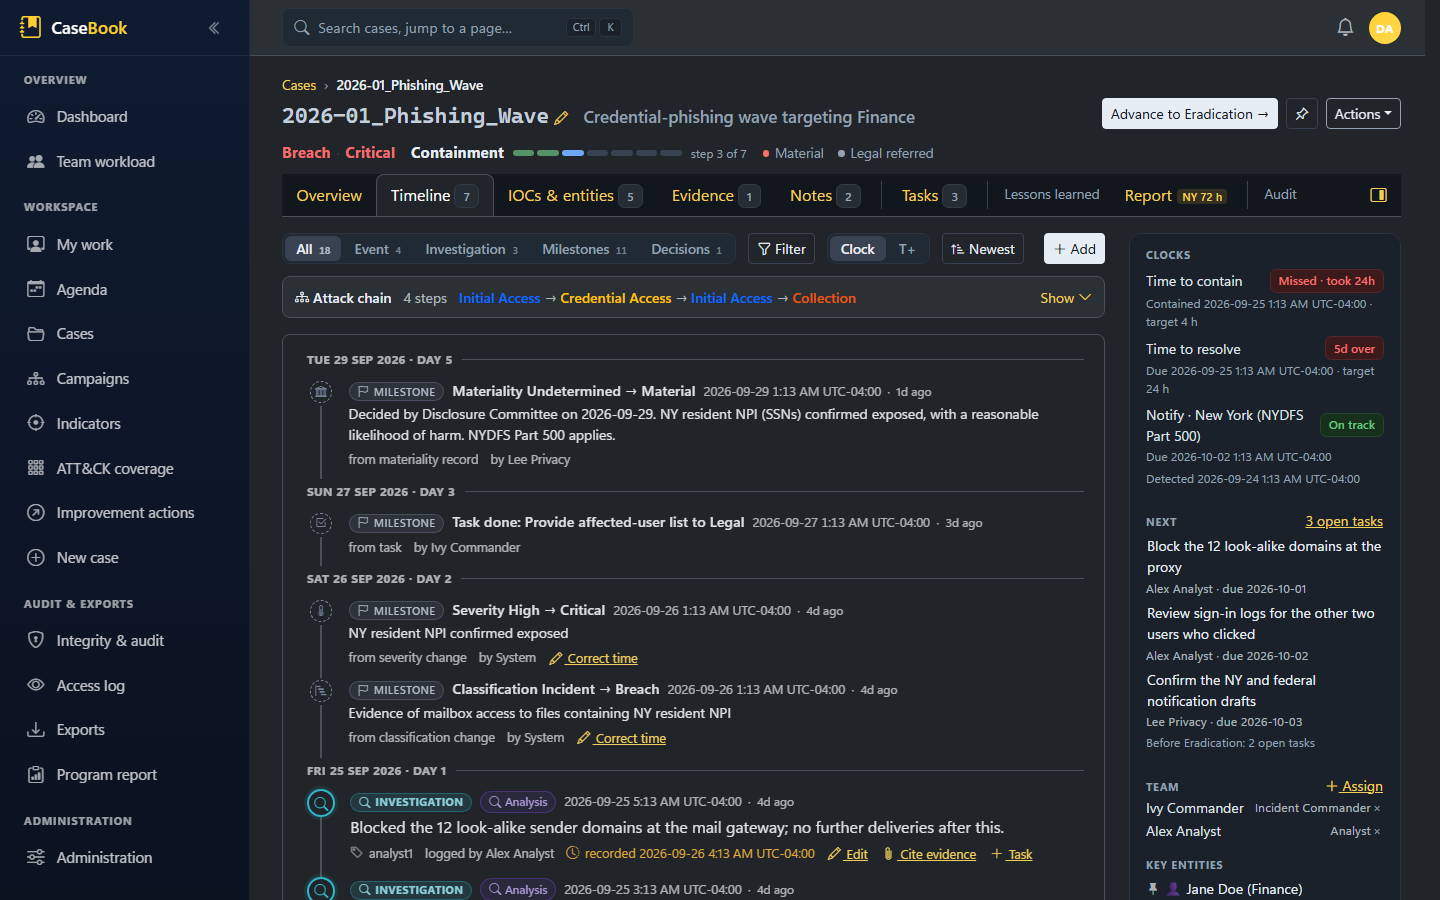
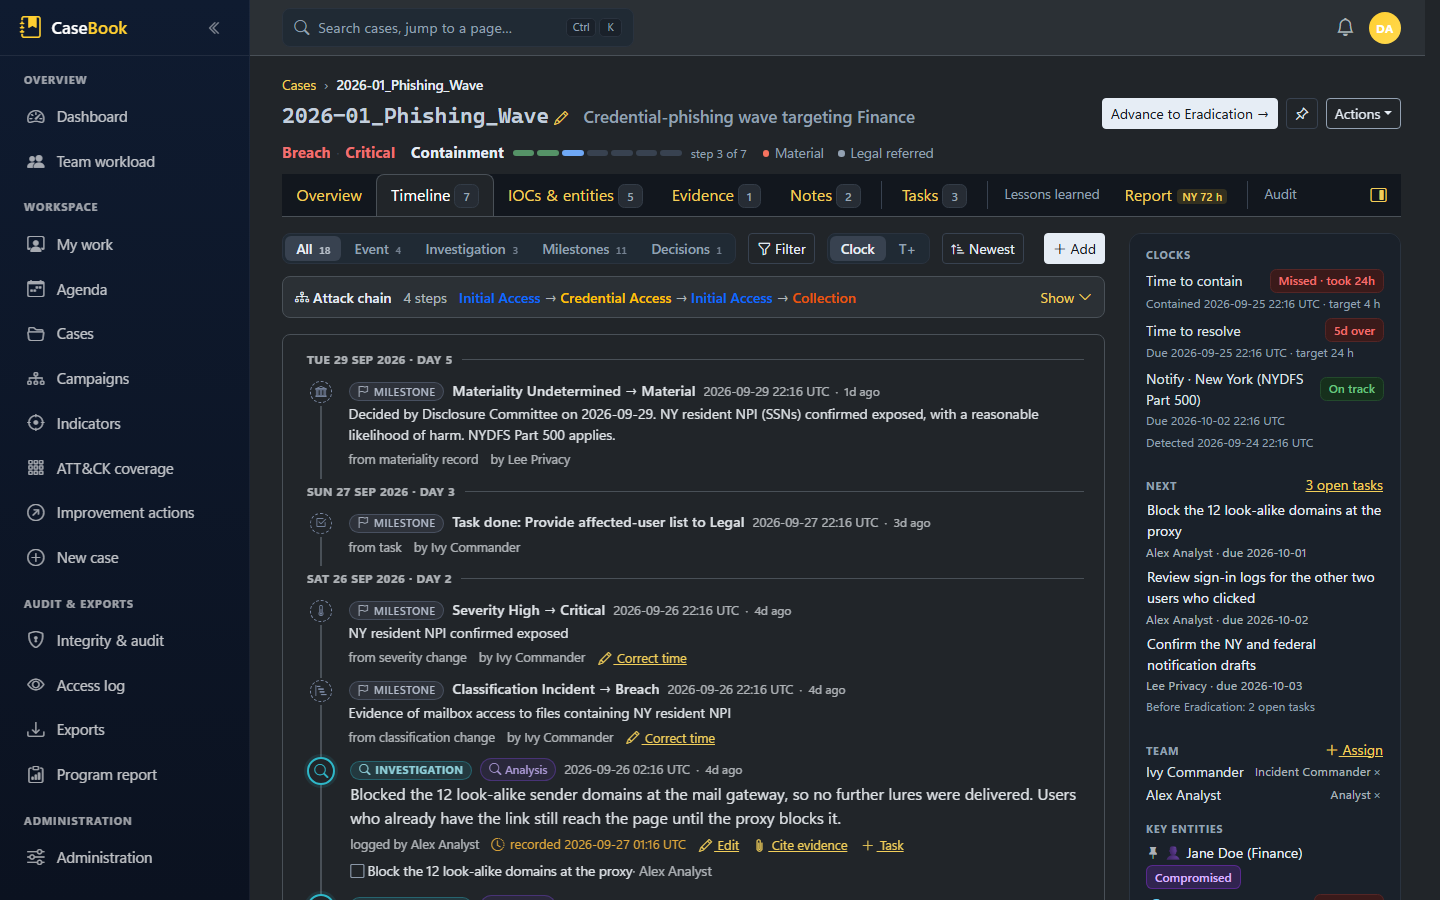
INV-42: the demo case shows named people, not System; README shots refreshed
The demo phishing case recorded its phase, classification and severity
changes, the Legal referral and its tasks as "System", in a product whose
stance is that every transition is a named person's act; two entries showed
raw user ids as their source; and the mail-gateway entry read as
contradicting the open proxy task.

- Alex opens and works the case, Ivy makes the calls and owns the tasks,
  Morgan staffs it.
- Entry sources no longer hold user ids; the lure URL comes from the email
  gateway.
- The gateway entry says the proxy block is still to come; the proxy task
  is about that entry and the sign-in review task is about Jane Doe, so
  both kinds of "about" chip show.
- All 23 README screenshots recaptured (H-10).

diff --git a/src/IncidentManager.Infrastructure/Persistence/DevDataSeeder.cs b/src/IncidentManager.Infrastructure/Persistence/DevDataSeeder.cs
@@ -86,9 +86,16 @@ public static class DevDataSeeder
         {
             CaseId = c.Id, Kind = TimelineKind.Investigation, Type = TimelineEntryType.Analysis,
             OccurredAtUtc = now.AddDays(-5).AddHours(4),
-            Description = "Blocked the 12 look-alike sender domains at the mail gateway; no further deliveries after this.",
-            Source = "analyst1", CreatedBy = "analyst1", CreatedAtUtc = now.AddDays(-4).AddHours(3)
+            Description = "Blocked the 12 look-alike sender domains at the mail gateway, so no further lures were delivered. " +
+                "Users who already have the link still reach the page until the proxy blocks it.",
+            CreatedBy = "analyst1", CreatedAtUtc = now.AddDays(-4).AddHours(3)
         });
+
+        // INV-42: the proxy task was raised from that entry, so its "about" chip leads back to it.
+        await db.SaveChangesAsync(ct);
+        var gateway = c.TimelineEntries.First(x => x.Description.StartsWith("Blocked the 12 look-alike sender domains"));
+        if (c.ActionItems.FirstOrDefault(x => x.Title.StartsWith("Block the 12 look-alike domains")) is { } proxy)
+            proxy.AboutRef = $"{ActionItem.AboutEntry}:{gateway.Id}";
 
         if (store is not null)
         {
@@ -516,11 +523,13 @@ public static class DevDataSeeder
             NewUser("admin1", "Sam Admin", "sam.admin@contoso-insurance.example", "SysAdmin", now));
         await db.SaveChangesAsync(ct);
 
-        // Case 1 — internal phishing, escalated to Breach with a Legal referral.
+        // Case 1 — internal phishing, escalated to Breach with a Legal referral. INV-42: every act on it is a named
+        // person's (the product's human-gated stance): Alex works it, Ivy commands it, Morgan staffs it.
+        const string ivy = "ic1", alex = "analyst1", morgan = "mgr1";
         var c1 = Case.Open(2026, 1, "Phishing Wave", "Credential-phishing wave targeting Finance",
-            Classification.AdverseEvent, Severity.Medium, CaseOrigin.InternalDetection, actor, now.AddDays(-6));
+            Classification.AdverseEvent, Severity.Medium, CaseOrigin.InternalDetection, alex, now.AddDays(-6));
         c1.DetectionCaseId = "SIEM-40122";
-        c1.SetInitialSummary("Multiple finance users received look-alike O365 login prompts.", actor, now.AddDays(-6));   // brief v1
+        c1.SetInitialSummary("Multiple finance users received look-alike O365 login prompts.", alex, now.AddDays(-6));   // brief v1
         c1.DataTypesInvolved = "Credentials; potential NPI";
         db.Cases.Add(c1);
         await db.SaveChangesAsync(ct);
@@ -530,62 +539,62 @@ public static class DevDataSeeder
             CaseId = c1.Id, Kind = TimelineKind.Investigation, OccurredAtUtc = now.AddDays(-5).AddHours(2),
             Type = TimelineEntryType.Analysis,
             Description = "Reviewed mailbox audit logs; confirmed one session established from a foreign ASN.",
-            Source = "analyst1", CreatedBy = actor, CreatedAtUtc = now.AddDays(-5).AddHours(2)
+            CreatedBy = alex, CreatedAtUtc = now.AddDays(-5).AddHours(2)
         });
         c1.Notes.Add(new AnalystNote
         {
             CaseId = c1.Id, Body = "Reset credentials for affected users; pulled mailbox audit logs.",
-            CreatedBy = actor, CreatedAtUtc = now.AddDays(-6)
+            CreatedBy = alex, CreatedAtUtc = now.AddDays(-6)
         });
-        c1.Assign("ic1", "Ivy Commander", CaseAssignmentRole.IncidentCommander, actor, now.AddDays(-6));
-        c1.Assign("analyst1", "Alex Analyst", CaseAssignmentRole.Analyst, actor, now.AddDays(-6));
-        c1.ChangePhase(CasePhase.Containment, "Isolated affected mailboxes", actor, now.AddDays(-5));
+        c1.Assign("ic1", "Ivy Commander", CaseAssignmentRole.IncidentCommander, morgan, now.AddDays(-6));
+        c1.Assign("analyst1", "Alex Analyst", CaseAssignmentRole.Analyst, morgan, now.AddDays(-6));
+        c1.ChangePhase(CasePhase.Containment, "Isolated affected mailboxes", ivy, now.AddDays(-5));
         await db.SaveChangesAsync(ct);
 
-        c1.Reclassify(Classification.Incident, "Confirmed successful credential capture", actor, now.AddDays(-5));
-        c1.ChangeSeverity(Severity.High, "Confirmed unauthorized mailbox access", actor, now.AddDays(-5));
-        c1.Reclassify(Classification.Breach, "Evidence of mailbox access to files containing NY resident NPI", actor, now.AddDays(-4));
-        c1.ChangeSeverity(Severity.Critical, "NY resident NPI confirmed exposed", actor, now.AddDays(-4));
-        c1.ReferToLegal(actor, "privacy@contoso-insurance.example", "NY resident NPI potentially accessed. Possible NYDFS Part 500 relevance.", now.AddDays(-4));
+        c1.Reclassify(Classification.Incident, "Confirmed successful credential capture", ivy, now.AddDays(-5));
+        c1.ChangeSeverity(Severity.High, "Confirmed unauthorized mailbox access", ivy, now.AddDays(-5));
+        c1.Reclassify(Classification.Breach, "Evidence of mailbox access to files containing NY resident NPI", ivy, now.AddDays(-4));
+        c1.ChangeSeverity(Severity.Critical, "NY resident NPI confirmed exposed", ivy, now.AddDays(-4));
+        c1.ReferToLegal(ivy, "privacy@contoso-insurance.example", "NY resident NPI potentially accessed. Possible NYDFS Part 500 relevance.", now.AddDays(-4));
         c1.ActionItems.Add(new ActionItem
         {
             CaseId = c1.Id, Title = "Provide affected-user list to Legal", Owner = "ic1",
             DueAtUtc = now.AddDays(-2), Status = ActionItemStatus.Done, CompletedAtUtc = now.AddDays(-3),
-            CreatedBy = actor, CreatedAtUtc = now.AddDays(-4)
+            CreatedBy = ivy, CreatedAtUtc = now.AddDays(-4)
         });
 
         // Entities / IOCs and the relationships between them (the investigation graph).
         var acct = c1.AddEntity(EntityType.Account, "CONTOSO\\jdoe", "Jane Doe (Finance)",
-            EntityDisposition.Unknown, "Mailbox accessed by the attacker.", "SIEM", actor, now.AddDays(-5));
+            EntityDisposition.Unknown, "Mailbox accessed by the attacker.", "SIEM", alex, now.AddDays(-5));
         var host = c1.AddEntity(EntityType.Host, "FIN-WKS-07", "Finance workstation",
-            EntityDisposition.Benign, "Endpoint the affected user logged in from.", "SIEM", actor, now.AddDays(-5));
+            EntityDisposition.Benign, "Endpoint the affected user logged in from.", "SIEM", alex, now.AddDays(-5));
         var ip = c1.AddEntity(EntityType.IpAddress, "203.0.113.66", "Foreign ASN egress",
-            EntityDisposition.Malicious, "Source of the unauthorized mailbox session.", "SIEM", actor, now.AddDays(-5));
+            EntityDisposition.Malicious, "Source of the unauthorized mailbox session.", "SIEM", alex, now.AddDays(-5));
         var url = c1.AddEntity(EntityType.Url, "https://o365-secure-login.contoso-insurance.example.attacker.test",
             "Phishing lure", EntityDisposition.Malicious, "Credential-harvesting page from the lure emails.",
-            "analyst1", actor, now.AddDays(-6));
+            "Email gateway", alex, now.AddDays(-6));
[1 lines of base64/hex data omitted]
-            "Lure attachment (SHA-256)", EntityDisposition.Suspicious, null, "VirusTotal", actor, now.AddDays(-6));
+            "Lure attachment (SHA-256)", EntityDisposition.Suspicious, null, "VirusTotal", alex, now.AddDays(-6));
 
-        c1.AddTechnique("T1566", "Phishing", MitreTactic.InitialAccess, actor, now.AddDays(-6));
-        c1.AddTechnique("T1078", "Valid Accounts", MitreTactic.InitialAccess, actor, now.AddDays(-5));
-        c1.AddTechnique("T1114", "Email Collection", MitreTactic.Collection, actor, now.AddDays(-5));
-        c1.LinkEntities(acct.Id, url.Id, EntityRelationshipType.Accessed, "User submitted credentials to the lure.", actor, now.AddDays(-6));
-        c1.LinkEntities(acct.Id, host.Id, EntityRelationshipType.LoggedInTo, null, actor, now.AddDays(-5));
-        c1.LinkEntities(url.Id, ip.Id, EntityRelationshipType.ResolvedTo, null, actor, now.AddDays(-5));
-        c1.LinkEntities(host.Id, ip.Id, EntityRelationshipType.CommunicatedWith, "Outbound session to the attacker IP.", actor, now.AddDays(-5));
+        c1.AddTechnique("T1566", "Phishing", MitreTactic.InitialAccess, alex, now.AddDays(-6));
+        c1.AddTechnique("T1078", "Valid Accounts", MitreTactic.InitialAccess, alex, now.AddDays(-5));
+        c1.AddTechnique("T1114", "Email Collection", MitreTactic.Collection, alex, now.AddDays(-5));
+        c1.LinkEntities(acct.Id, url.Id, EntityRelationshipType.Accessed, "User submitted credentials to the lure.", alex, now.AddDays(-6));
+        c1.LinkEntities(acct.Id, host.Id, EntityRelationshipType.LoggedInTo, null, alex, now.AddDays(-5));
+        c1.LinkEntities(url.Id, ip.Id, EntityRelationshipType.ResolvedTo, null, alex, now.AddDays(-5));
+        c1.LinkEntities(host.Id, ip.Id, EntityRelationshipType.CommunicatedWith, "Outbound session to the attacker IP.", alex, now.AddDays(-5));
 
         // The attack chain (Event timeline): each step mapped to ATT&CK with actor → target, so the report's
         // attack-chain picture (PROD-46) has a realistic example.
         c1.AddEventStep(now.AddDays(-6), [MitreTactic.InitialAccess], "T1566.002", url.Id, acct.Id,
             "12 inbound look-alike domains delivered O365 phishing lures; 3 finance users clicked.", "SIEM",
-            actor, now.AddDays(-6), type: TimelineEntryType.Detection);
+            alex, now.AddDays(-6), type: TimelineEntryType.Detection);
         c1.AddEventStep(now.AddDays(-6).AddMinutes(20), [MitreTactic.CredentialAccess], "T1056.003", url.Id, acct.Id,
-            "jdoe entered credentials on the look-alike O365 sign-in page.", "SIEM", actor, now.AddDays(-6).AddMinutes(20));
+            "jdoe entered credentials on the look-alike O365 sign-in page.", "SIEM", alex, now.AddDays(-6).AddMinutes(20));
         c1.AddEventStep(now.AddDays(-5).AddHours(-3), [MitreTactic.InitialAccess], "T1078.004", ip.Id, acct.Id,
-            "Sign-in to jdoe's mailbox from a foreign ASN using the captured credentials.", "SIEM", actor, now.AddDays(-5).AddHours(-3));
+            "Sign-in to jdoe's mailbox from a foreign ASN using the captured credentials.", "SIEM", alex, now.AddDays(-5).AddHours(-3));
         c1.AddEventStep(now.AddDays(-5).AddHours(-2), [MitreTactic.Collection], "T1114.002", ip.Id, acct.Id,
-            "Mailbox searched; messages with NPI attachments opened.", "SIEM", actor, now.AddDays(-5).AddHours(-2));
+            "Mailbox searched; messages with NPI attachments opened.", "SIEM", alex, now.AddDays(-5).AddHours(-2));
 
         // The investigation-workspace features: a decision with its why (INV-06), tasks by kind of response work
         // (INV-13), and the team's brief (INV-09), so the demo case shows how they read together.
@@ -596,23 +605,24 @@ public static class DevDataSeeder
             Description = "Reset credentials and revoke sessions for all three users who clicked, not only the confirmed one.",
             Rationale = "Sign-in logs for the other two users are incomplete, and resetting is low cost.",
             OptionsConsidered = "Reset only jdoe's credentials", DecidedBy = "Incident Commander",
-            Source = "ic1", CreatedBy = "ic1", CreatedAtUtc = now.AddDays(-5).AddHours(1)
+            CreatedBy = ivy, CreatedAtUtc = now.AddDays(-5).AddHours(1)
         });
         c1.ActionItems[0].Kind = TaskKind.Notify;
         c1.ActionItems.Add(new ActionItem
         {
             CaseId = c1.Id, Title = "Block the 12 look-alike domains at the proxy", Owner = "analyst1", Kind = TaskKind.Contain,
-            DueAtUtc = now.AddDays(1), CreatedBy = actor, CreatedAtUtc = now.AddDays(-5)
+            DueAtUtc = now.AddDays(1), CreatedBy = ivy, CreatedAtUtc = now.AddDays(-5)
         });
         c1.ActionItems.Add(new ActionItem
         {
             CaseId = c1.Id, Title = "Review sign-in logs for the other two users who clicked", Owner = "analyst1",
-            Kind = TaskKind.Investigate, DueAtUtc = now.AddDays(2), CreatedBy = actor, CreatedAtUtc = now.AddDays(-5)
+            Kind = TaskKind.Investigate, DueAtUtc = now.AddDays(2), CreatedBy = alex, CreatedAtUtc = now.AddDays(-5),
+            AboutRef = $"{ActionItem.AboutEntity}:{acct.Id}"   // INV-42: started from Jane Doe's entity panel
         });
         c1.ActionItems.Add(new ActionItem
         {
             CaseId = c1.Id, Title = "Confirm the NY and federal notification drafts", Owner = "legal1",
-            Kind = TaskKind.Notify, DueAtUtc = now.AddDays(3), CreatedBy = actor, CreatedAtUtc = now.AddDays(-2)
+            Kind = TaskKind.Notify, DueAtUtc = now.AddDays(3), CreatedBy = ivy, CreatedAtUtc = now.AddDays(-2)
         });
         // INV-25: the brief's next steps are the open tasks, recorded with the version as they stood.
         var names = new Dictionary<string, string> { ["ic1"] = "Ivy Commander", ["analyst1"] = "Alex Analyst", ["legal1"] = "Lee Privacy" };
